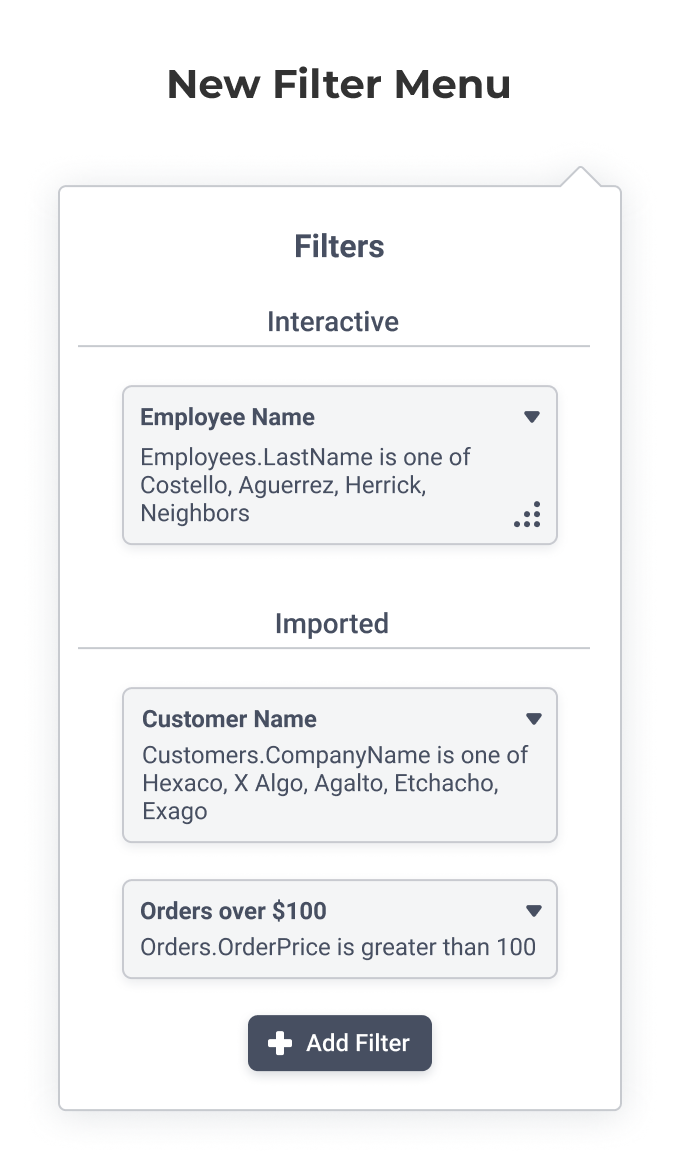
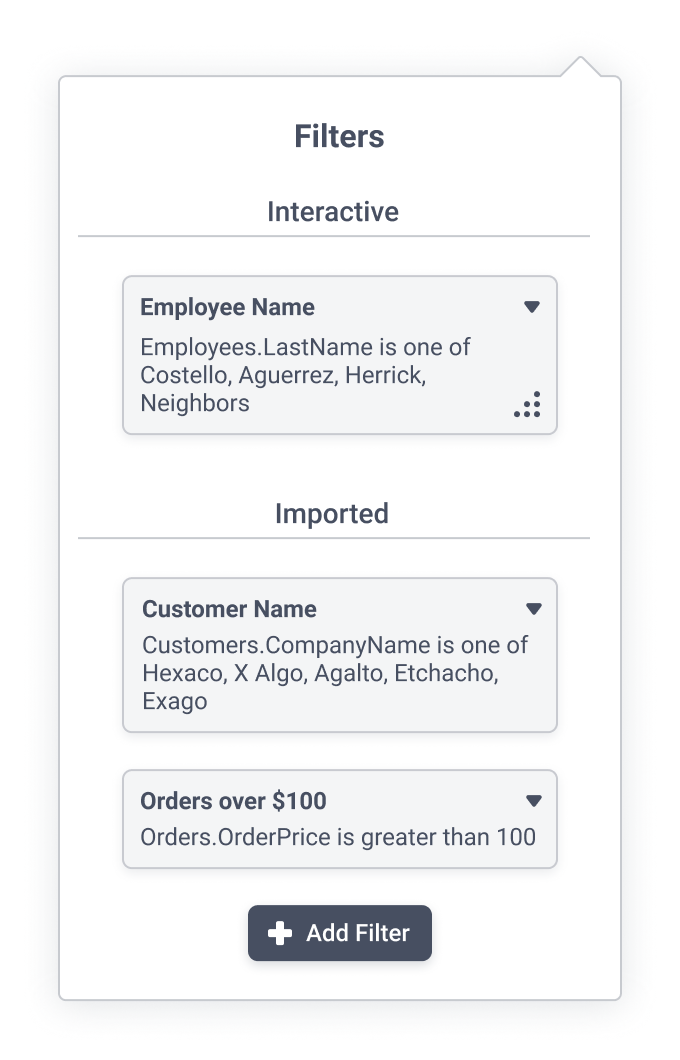
Update Images without text

diff --git a/projects/DashboardBuilder_Exago.html b/projects/DashboardBuilder_Exago.html
@@ -96,9 +96,10 @@
 			<div class="column-margin"></div>
 		</div>
 
-		<div class="row">
 		<!------------------------------------------------------------------------------->
 		<div class="row-section-break"></div>
+
+		<div class="row">
 			<div class="column-margin"></div>
 			<div class="one-column-content">
 				<h2>Workflow for Creating Charts</h2>
@@ -114,10 +115,17 @@
 			</div>
 			<div class="column-margin"></div>
 		</div>
+
 		<div class="row">
 			<div class="column-margin"></div>
-			<div class="two-column-content"><img style="width: 100%;" src="../assets/Old Chart Workflow.png" alt="Visualization of the old chart building workflow. It includes two different pathways and an error that could have been prevented."></div>
-			<div class="two-column-content"><img style="width: 50%; margin-left: 76px;" src="../assets/New Chart Workflow.png" alt="Visualization of the new chart building workflow. Including only three steps and removes the error state."></div>
+			<div class="two-column-content">
+				<h2 style="text-align: center;">Old Workflow</h2>
+				<br/>
+				<img style="width: 100%;" src="../assets/Old Chart Workflow.png" alt="Visualization of the old chart building workflow. It includes two different pathways and an error that could have been prevented."></div>
+			<div class="two-column-content">
+				<h2 style="text-align: center;">New Workflow</h2>
+				<br/>
+				<img style="width: 50%; margin-left: 25%;" src="../assets/New Chart Workflow.png" alt="Visualization of the new chart building workflow. Including only three steps and removes the error state."></div>
 			<div class="column-margin"></div>
 		</div>
 		<!------------------------------------------------------------------------------->
@@ -176,7 +184,8 @@
 				</p>
 				<br/>
 				<br/>
-				<img style="width: 100%;" src="../assets/Old Information Architecture.png" alt="Visualization of the old chart building workflow. It includes two different pathways and an error that could have been prevented.">
+				<h2 style="text-align: center;">Old Organization</h2>
+				<img style="width: 70%; margin-left: 15%;" src="../assets/Old Information Architecture.png" alt="Visualization of the old chart building workflow. It includes two different pathways and an error that could have been prevented.">
 				<br/>
 				<br/>
 				<p class="figure">Sections were duplicated and stacked next to each other; one set for global options and another for tile-specific options.</p>
@@ -184,7 +193,8 @@
 				<br/>
 				<br/>
 				<br/>
-				<img style="width: 100%;" src="../assets/New Information Architecture.png" alt="Visualization of the old chart building workflow. It includes two different pathways and an error that could have been prevented.">
+				<h2 style="text-align: center;">New Organization</h2>
+				<img style="width: 70%; margin-left: 15%;" src="../assets/New Information Architecture.png" alt="Visualization of the old chart building workflow. It includes two different pathways and an error that could have been prevented.">
 				<br/>
 				<br/>
 				<p class="figure">The updated layout communicates visual hierarchy, where options that affect the entire Dashboard are above content specific options.</p>
